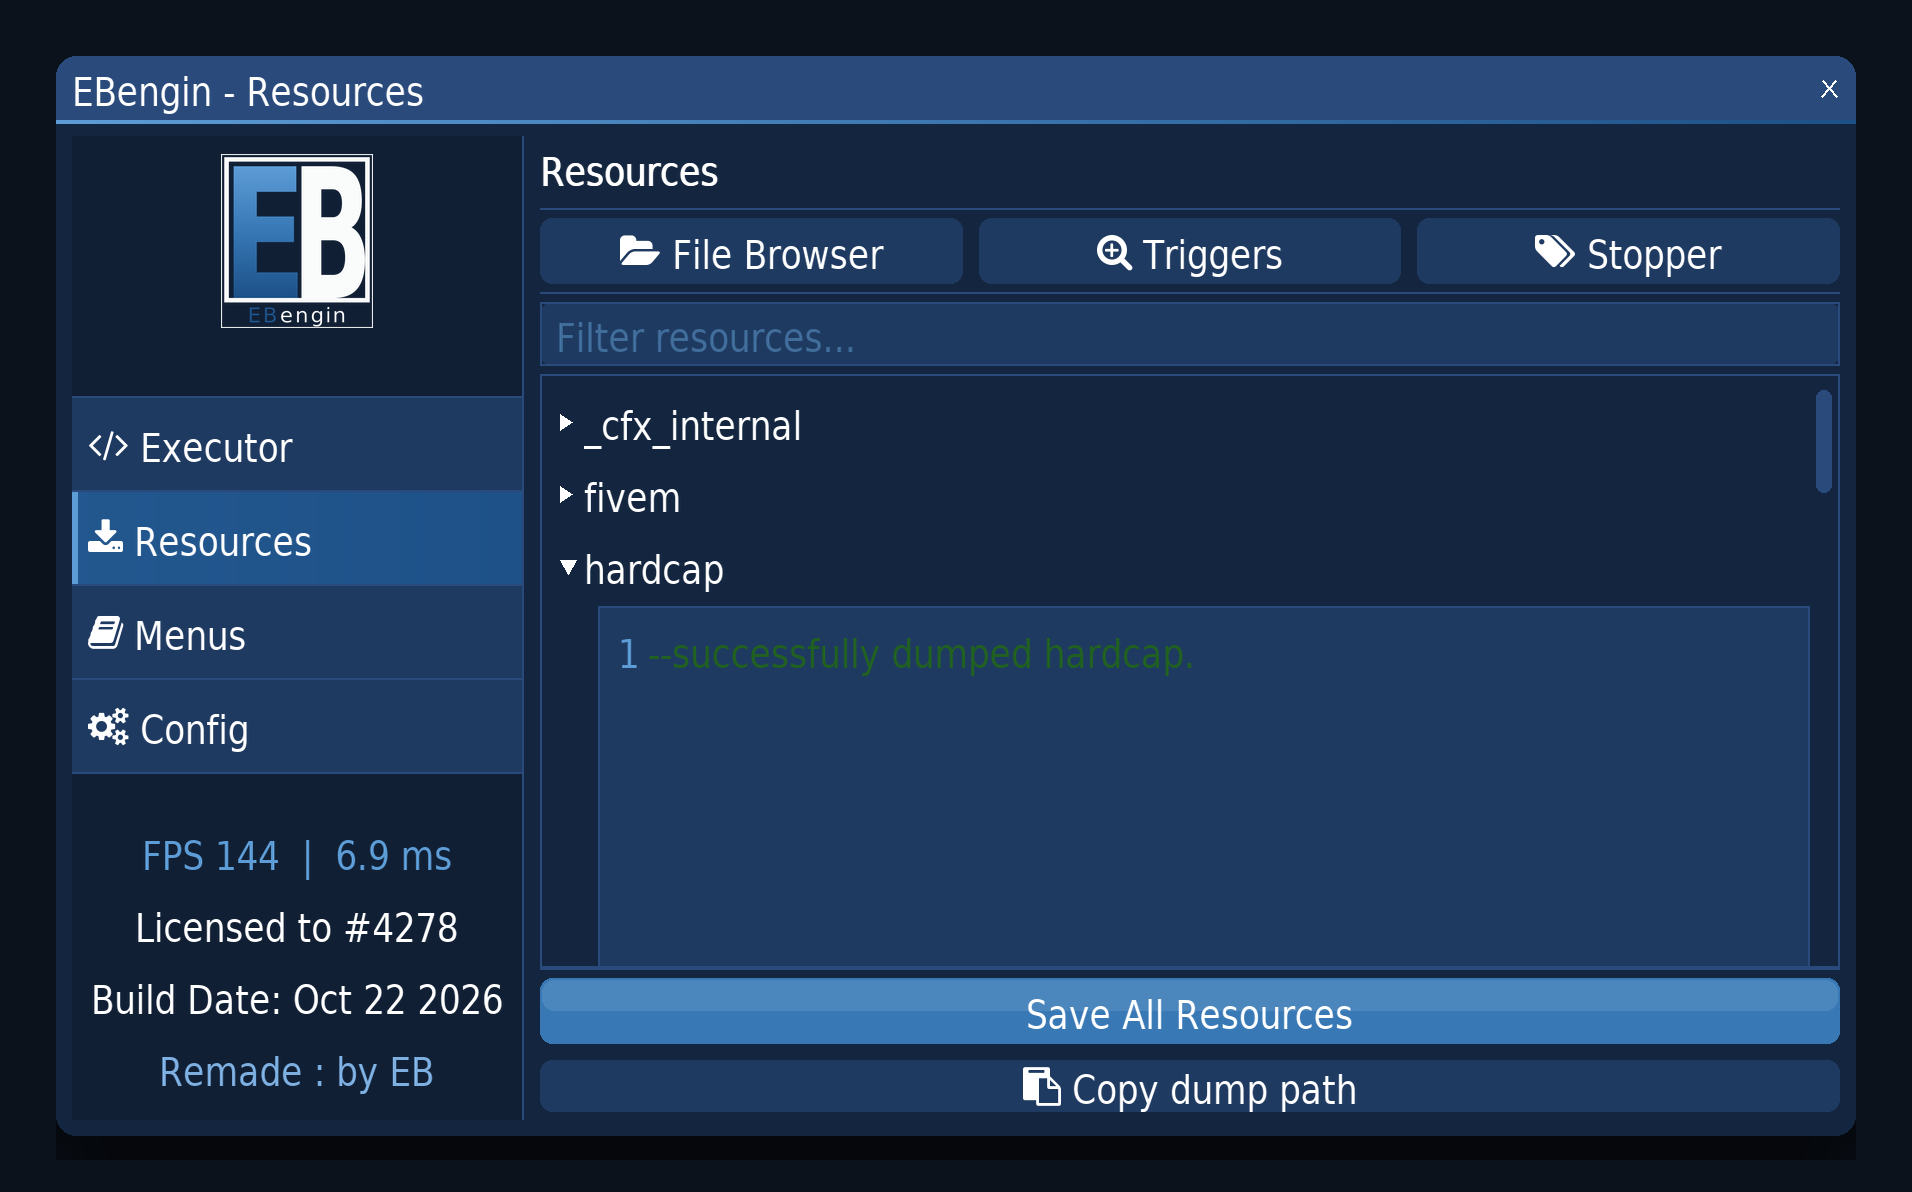
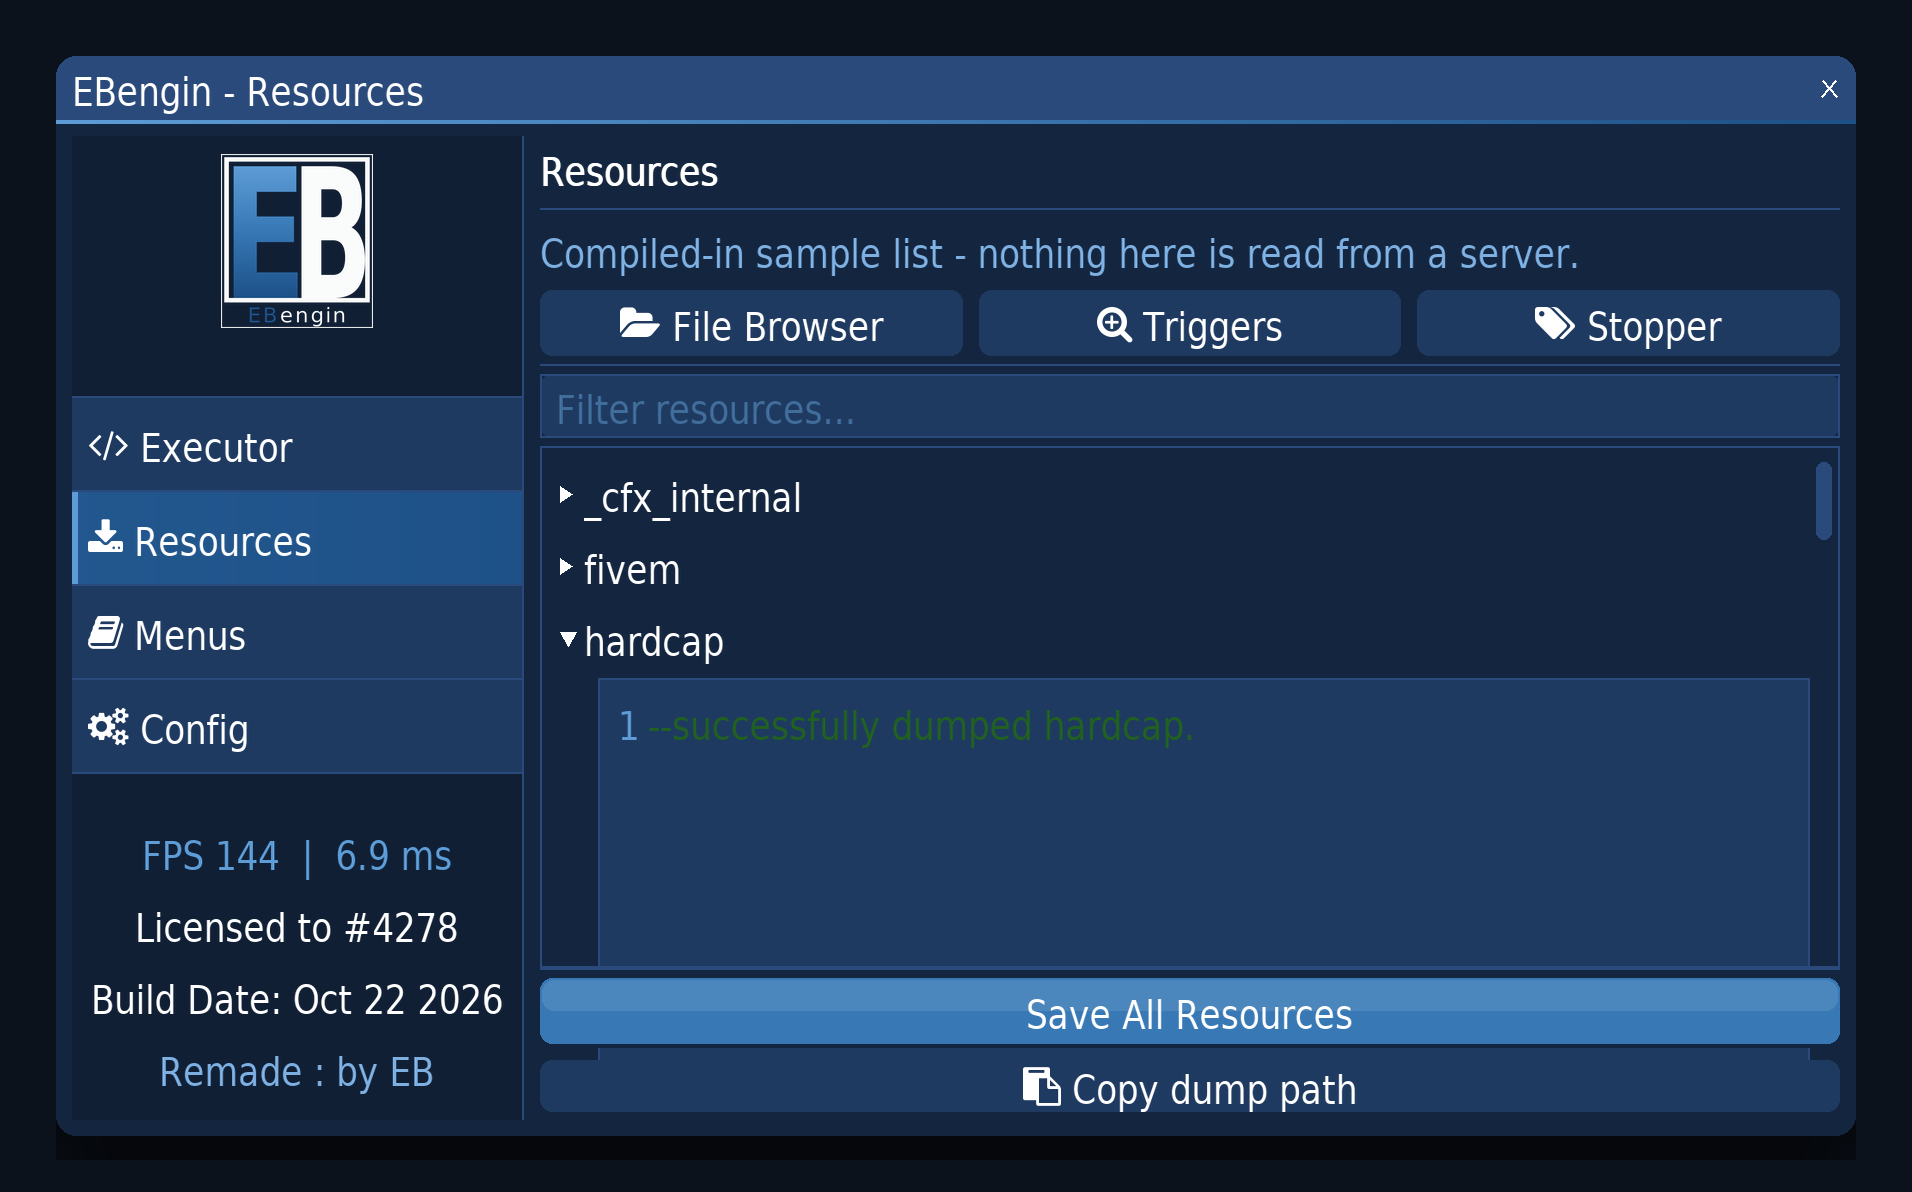
Resources tab and Executor combo disclose the compiled-in sample list; renderer models the line; row 230

diff --git a/resources.cpp b/resources.cpp
@@ -206,6 +206,13 @@ namespace Resources
 	void Render()
 	{
 		Gui::SectionTitle("Resources", "##resources_seperator_2");
+		// UI: row 230 - the browser and stopper operate on a compiled-in sample
+		// list (exec.cpp); nothing here is enumerated from a server.  The tab
+		// never said so, so names like _cfx_internal or esx_mafia read as live
+		// discovery - the same honesty contract the inert Config switches fulfil
+		// with visible labels, not just tooltips.
+		ImGui::TextColored(ColMuted, "%s",
+			"Compiled-in sample list - nothing here is read from a server.");
 
 		// GetWindowWidth()/4 is a quarter of the 900px *outer* window, so three of
 		// them plus two ItemSpacings (691px) did not fit the ~658px content cell

diff --git a/docs/render_preview.py b/docs/render_preview.py
@@ -891,6 +891,11 @@ elif TAB == "resources":
     y = CY0 + LINE_ADV
     R(CX0, y, CX1, y + 1, C_BORDER)
     y += 1 + ITEM_SPACING_Y
+    # UI: row 230 - the tab's provenance line, muted brand token (row 147)
+    T(CX0, y + (LINE_H - FONT_SIZE) / 2,
+      "Compiled-in sample list - nothing here is read from a server.",
+      C_MUTED_BRAND)
+    y += LINE_ADV
 
     bw = (CX1 - CX0 - 2 * ITEM_SPACING_X) / 3.0        # resources.cpp buttonWidth
     SUBTABS = [("\uf07c", " File Browser"), ("\uf00e", " Triggers"), ("\uf02c", " Stopper")]

diff --git a/exec.cpp b/exec.cpp
@@ -666,6 +666,11 @@ namespace Executor
 				Settings::Current.ResourceName = resources[selectedResource];
 				Settings::Save();
 			}
+			// UI: row 230 - the Executor's target combo offers the same compiled-in
+			// sample names; the hover tooltip says so where the selection happens.
+			if (ImGui::IsItemHovered())
+				ImGui::SetTooltip("%s",
+					"Compiled-in sample names - nothing is read from a server.");
 		}
 		else
 			// The stopper can erase the last entry; without a fallback the row

diff --git a/BUILD.md b/BUILD.md
@@ -367,6 +367,7 @@ Separate from the build fixes above: these are bugs that compiled fine but misbe
 | 227 | Row 226 added two includes (menu_style.h to settings.h, menu.cpp to activity.h), so the regenerated README graph gained two edges (79 to 81) - and the Docs & render row kept quoting 79, the exact drift class row 215 had repaired once before: doc rows describing generated artifacts go stale silently | The row now says 81 edges, matching both the regenerated README mermaid and a fresh `gen_include_graph.py` run |
 | 228 | The splash hint lines were drawn with a single centred TextColored: a long localised key name (a German numpad binding reads "0 (ZEHNERTASTATUR)" - real inject screenshot) or the qualified printable sentence made the line wider than the 460px card, and the text clipped mid-word at the right edge because Centered() only clamps the start cursor | RenderSplash wraps the hints at word boundaries and centres each line (single-line strings render exactly as before), and the card height grows by one line advance per extra wrapped line - the renderer's worst-case assert proved the old fixed 288px card too short for a two-line hint, which would have hung the Continue button off the card edge; the renderer models the same wrap and asserts, beyond the depicted INSERT binding, that the worst case - qualified printable sentence, two lines - fits both the card width and the grown height |
 | 229 | Execute and the resource stopper carried `_cfx_internal` special cases that answered with red error modals ("You can't execute in _cfx_internal.", "You can't stop _cfx_internal") - capability claims in refusal form: they imply execution/stopping works for every other resource, while this build implements neither (Execute reports only, Stop only removes the entry from the local list after saying so). A real click screenshot showed the error box | Both special cases are gone: `_cfx_internal` takes the same honest paths as every other entry - the report-only Execute modal that names target and script size, and the confirmed local-list removal that states it does not stop anything on the server. No handler signature changed, no payload added |
+| 230 | The Resources tab and the Executor target combo operate on a compiled-in sample list (exec.cpp), but nothing in the UI said so: names like `_cfx_internal` or `esx_mafia` read as live server discovery, while the project's own honesty contract gives inert features visible labels in the tab (the Safe Mode / ScriptHook Bypass pattern) | The Resources tab opens with a muted provenance line ("Compiled-in sample list - nothing here is read from a server."), the Executor combo says the same in a hover tooltip, the README names the list's origin, and docs/render_preview.py models the new line - so preview_resources.png shifts by exactly that line, committed deliberately |
 
 
 

diff --git a/CHANGELOG.md b/CHANGELOG.md
@@ -11,6 +11,16 @@ say so in the UI - see README and PR #1.
 "row N" refers to the fix table in `BUILD.md` §5.  The PR body carries a summary
 and the verification anchor only; per-batch write-ups live here and in the commits.
 
+## The Resources tab names its own provenance (row 230)
+- The browser, stopper and Executor combo operate on a compiled-in sample list (exec.cpp), but
+  nothing in the UI said so: names like `_cfx_internal` or `esx_mafia` read as live server
+  discovery.  The project's own honesty contract gives inert features visible labels in the tab
+  (the Safe Mode / ScriptHook Bypass pattern), so the Resources tab now opens with a muted line -
+  "Compiled-in sample list - nothing here is read from a server." - and the Executor combo repeats
+  it in a hover tooltip; the README names the list's origin.
+- docs/render_preview.py models the new line, so preview_resources.png shifts by exactly one line;
+  the changed render is committed deliberately, the other seven stay byte-identical.
+
 ## The _cfx_internal error boxes were capability claims in refusal form (row 229)
 - Execute answered the internal FiveM context with a red error modal, "You can't execute in
   _cfx_internal." - which implies execution works for every other resource.  It does not: this

diff --git a/README.md b/README.md
@@ -457,6 +457,9 @@ Until then there is **no CI and no compile proof** — every check on this branc
 * What is **implemented**: the full UI, the Lua editor with syntax highlighting, Load-from-file,
   the trigger clipboard list, resource dumps, and the resource-list stopper (which
   confirms before removing an entry).
+  The resource names in the Executor combo and the Resources tab are a **compiled-in sample
+  list** (`exec.cpp`); nothing is enumerated from a server, and the Resources tab says so in a
+  muted line above the sub-tabs (row 230).
   What is **still a stub** (and now says so in a tooltip before the click as well as in a
   message box after it, instead of doing nothing silently):
   actually executing a script, actually stopping a server resource, launching the listed menus,
